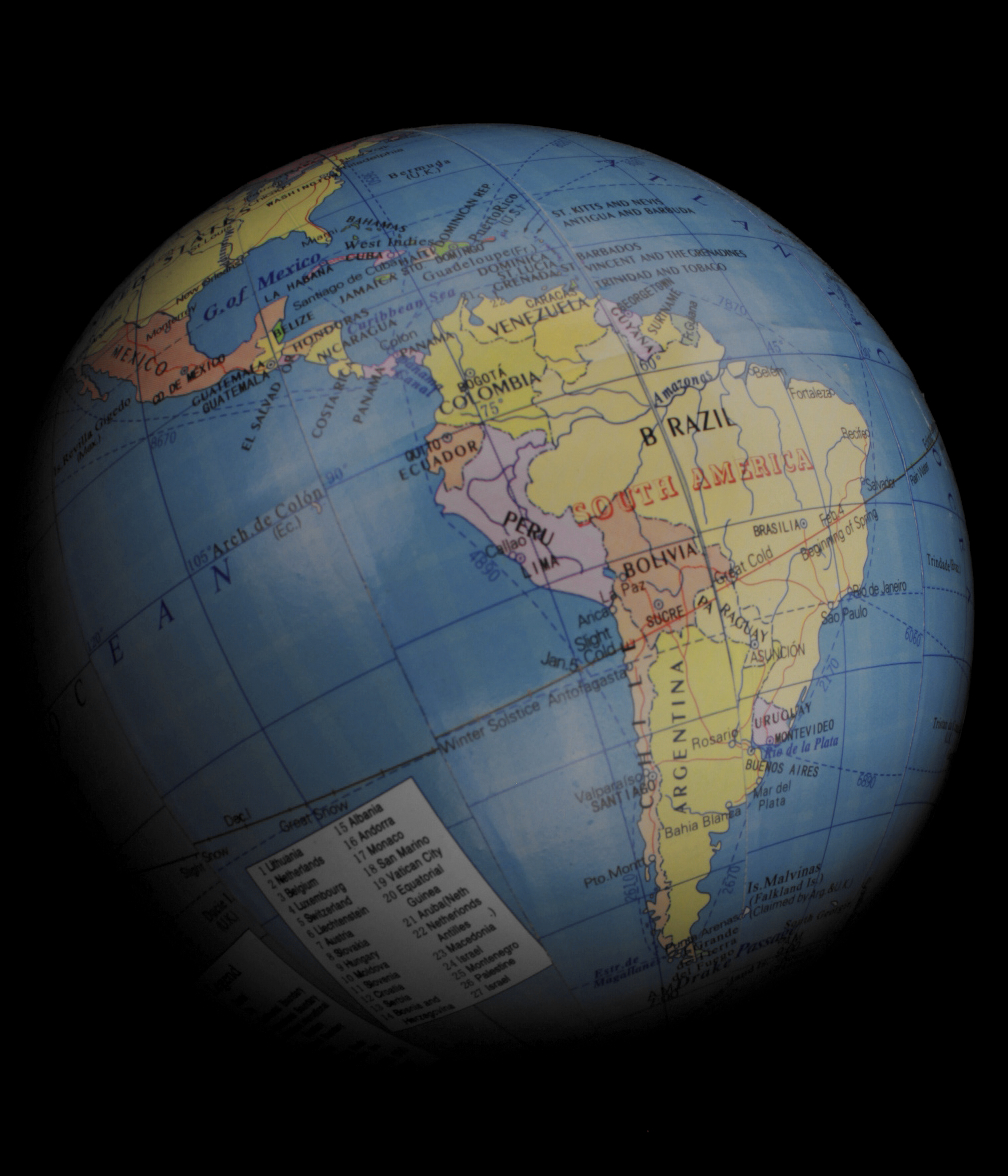
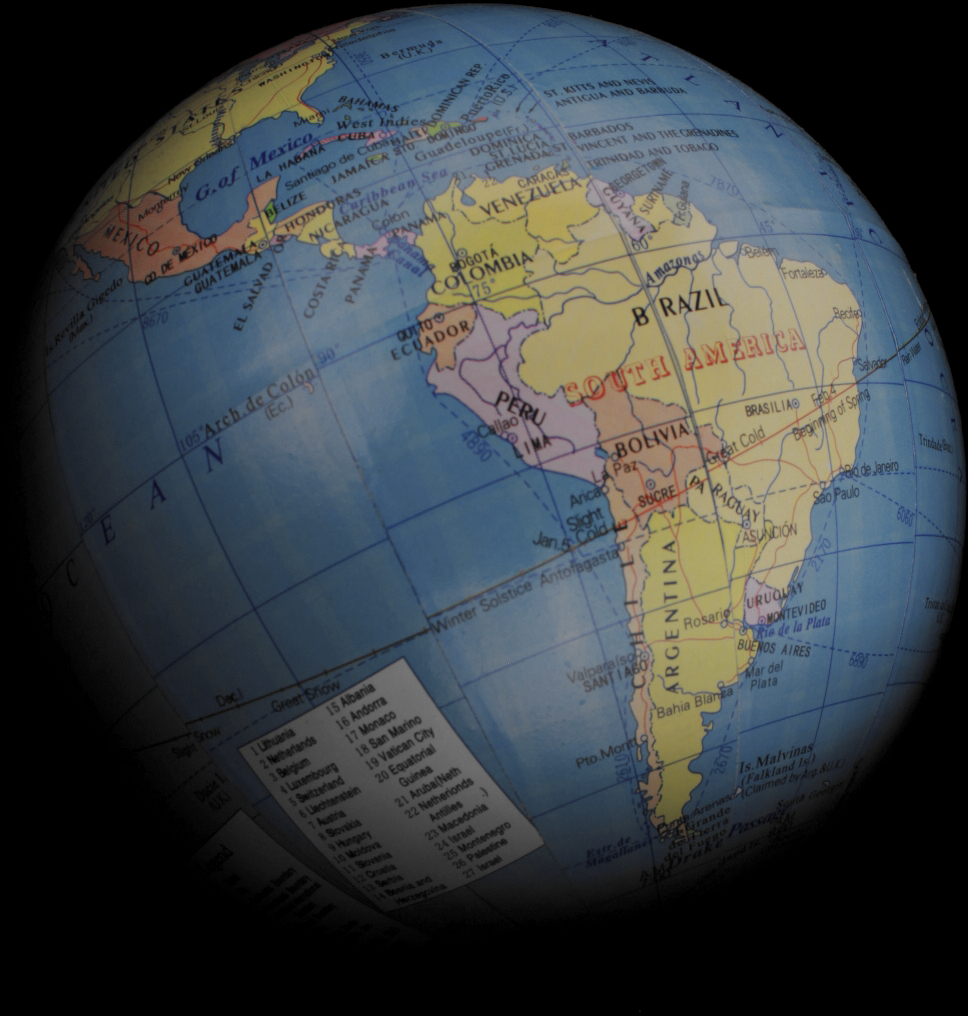
Estilizandocss

diff --git a/style.css b/style.css
@@ -1,5 +1,7 @@
-@import url('https://fonts.googleapis.com/css2?family=Bree+Serif&family=Roboto+Mono:ital,wght@0,100..700;1,100..700&family=Roboto:ital,wght@0,100;0,300;0,400;0,500;0,700;0,900;1,100;1,300;1,400;1,500;1,700;1,900&display=swap');
-@import url('https://fonts.googleapis.com/css2?family=Bree+Serif&family=Roboto:ital,wght@0,100;0,300;0,400;0,500;0,700;0,900;1,100;1,300;1,400;1,500;1,700;1,900&display=swap');
+
+
+@import url('https://fonts.googleapis.com/css2?family=Bree+Serif&family=Patua+One&family=Roboto+Mono:ital,wght@0,100..700;1,100..700&family=Roboto:ital,wght@0,100;0,300;0,400;0,500;0,700;0,900;1,100;1,300;1,400;1,500;1,700;1,900&display=swap');
+
 *{
     margin: 0;
     padding: 0;
@@ -21,23 +23,29 @@ html, body{
 p{
     width: 100%;
     height: 40%;
-    color: white;
+    color: #84B295;
+   
     font-size: 33px;
-    font-family: "Roboto Mono", monospace;
+    font-family: "Bree Serif", serif;
+   
+    font-style: normal;
     margin-top: 36%;
     position: relative;
     z-index: 100% ;
 }
 h1{
     transform: translate(-0%, -50%);
-    font-family: "Roboto", sans-serif;
-    color: #f9f9e7;
+    color: white;
+    background-color: #01010148;
     width: 100%;
-    font-size: 46px;
+    font-size: 66px; /* ajustar no media query depois*/
     text-align: center;
     margin-top: 32%;
     position: absolute;
     z-index: 100% auto;
+    font-family: "Bree Serif", serif;
+    font-style: normal;
+  
 }
 
 #Home{
@@ -57,10 +65,11 @@ h1{
 }
 #nav{
     position: relative;
+    padding-top: 4px;
     height:50px;
-    margin-top: 8px;
+    margin-top: 0%;
     padding-left: 40px;
-    background-color: rgb(0, 0, 0);
+    background-color:#84B295 ;
     
 
 }
@@ -100,13 +109,13 @@ input{
     width: 72%;
 }
 #img4{
-    background-image: linear-gradient(to bottom, #c1e0e0 0, #c1e0e0 70% ,  rgba(0, 0, 0, 0.153) 30%);
+    background-image: linear-gradient(to bottom, #c1e0e0 0,  70% ,  rgba(0, 0, 0, 0.153) 30%);
     width: 80%;
 }
 
 #terceiraApresentacao{
     margin-top: -5%;
-    background-color:  #c1e0e0;
+    background-color:  #84B295;
 }
 #terceiraFoto{
     display: flex;
@@ -115,8 +124,8 @@ input{
     margin-top: 10px; /*parte azul cima comeco*/
     width: 100%;
     position: relative;
-    background-color: #c1e0e0;
-    background-image: linear-gradient(to bottom, #c1e0e0 0, #c1e0e0 50% ,  black 30%);
+    background-color: #BB8138;
+    background-image: linear-gradient(to bottom,#BB8138 0, #BB8138 50% , black 30%);
 }
 #segundaApresentacao{
     background-color: black;
@@ -139,7 +148,8 @@ input{
     width: 100%;
     display: flex;
     align-items: flex-start;
-    color: white;
+    
+    background-color: #f9f9e7;
 }
 #maeprincipal{
     width: 47%;
@@ -165,9 +175,9 @@ input{
     width: 50%;
 }
 #titulo2{
-    font-family: "Roboto Mono", monospace;
+   
     margin: 10px;
-    font-size: 30px;
+    font-size: 34px;
 }
 #vo1{
     margin-left: 25%;
@@ -177,12 +187,13 @@ input{
 }
 #apresentacaoProjeto{
     padding-bottom: 3%;
-    margin-top: -10%;
+    margin-top: -13%;
     position: relative;
-    background-image: linear-gradient(to bottom, #c1e0e0 0, #c1e0e0 55% ,  rgba(0, 0, 0, 0.153) 45%); /*inverter porcentagem para igualar com o outro*/
+    background-color: #84B295;
+    background-image: linear-gradient(to bottom,  #84B295 0, #84B295 55% ,  black 45%); /*inverter porcentagem para igualar com o outro*/
 }
 #paragrafogrid{
-    font-family: "Roboto Mono", monospace;
+    
     color: black;
     font-size: 30px;
     margin-top: 5px;

diff --git a/script.js b/script.js
@@ -99,23 +99,10 @@ let interval4 = 150;
         }, interval4)
     }
         window.addEventListener("load", function showSubmit(){
-            setTimeout( function(){
+            setTimeout( function(){ //defini ointervalo
                 digitoRasta(res4, digitoNome, interval4)
     }, 2008);
     });
-/* function digitoRasta(element4,digitoNome, interval4){
-    let char4 = digitoNome.split("").reverse();
-    let typer = setInterval(function (){
-        if(!char4.length){
-            return clearInterval(typer);
-        }
-        let next2 = char4.pop();
-        element4.innerHTML += next2;
-    }, interval4)
-}
-    window.addEventListener("load", function(){
-    digitoRasta(res4, digitoNome, interval4)
-});
-*/
+
 
 

diff --git a/index.html b/index.html
@@ -17,7 +17,7 @@
     </header>
     <div id="conteudo">
         <div id="Home">
-                <img src="assets/img/globo-novo.jpg" alt="" id="imgHome">
+                <img src="assets/img/globocapa.jpg" alt="" id="imgHome">
                 <img src="assets/img/mae2.jpg" alt="" id="imgHome">
             <div id="fraseHome" class="conteudo">
                 <h1 class="texto" onload="digito1()"></h1> <!--tamo aqui/ css-->
